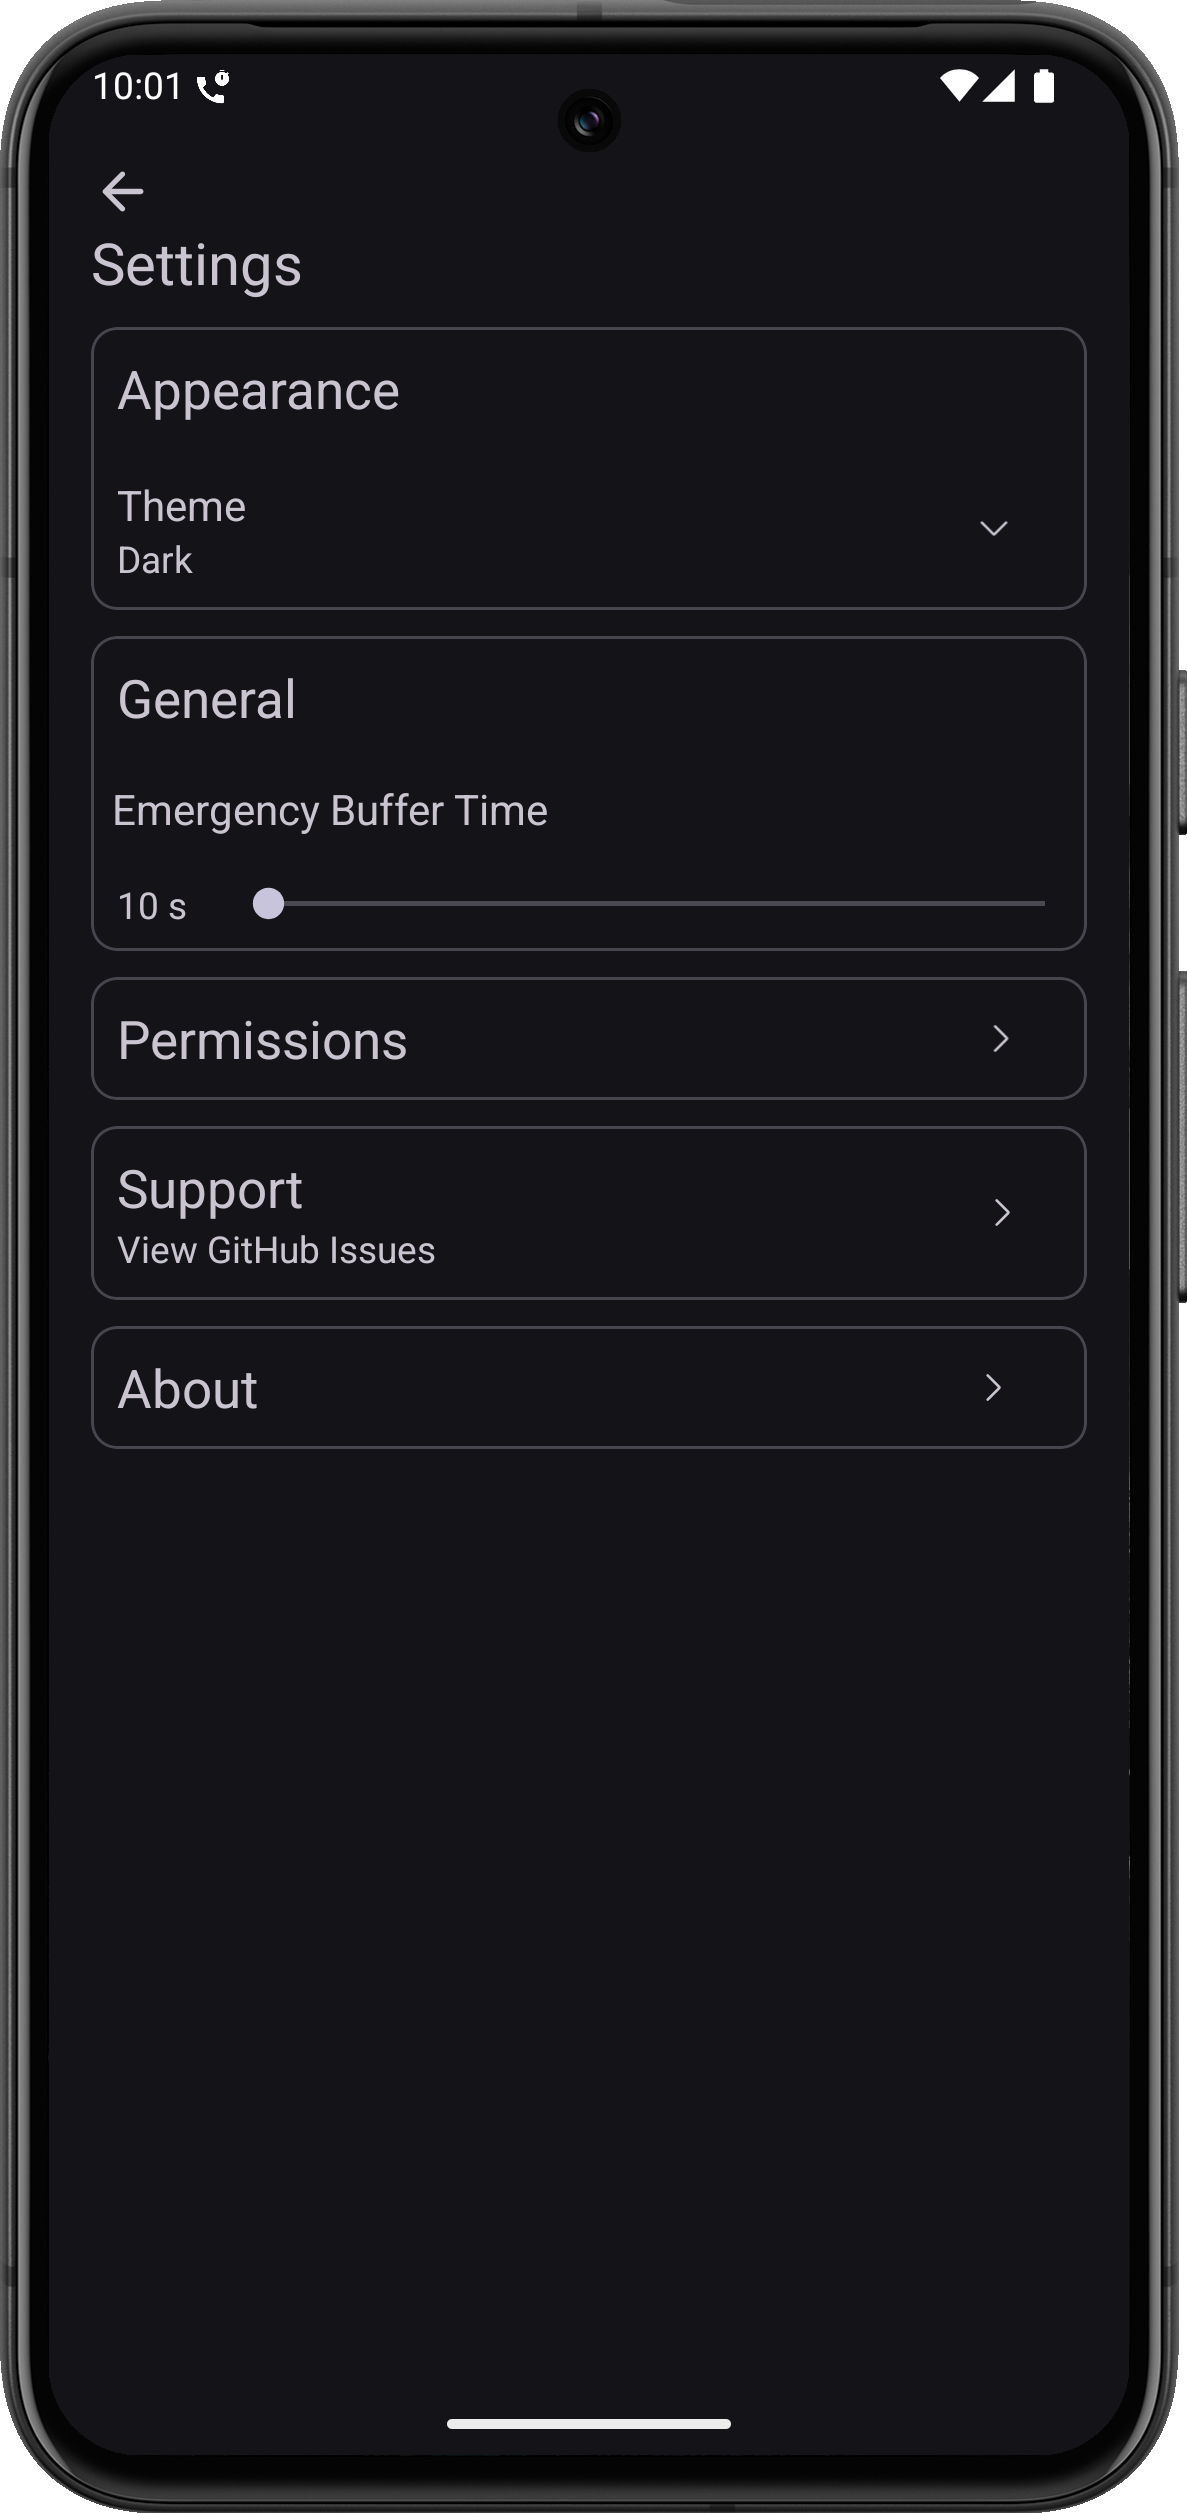
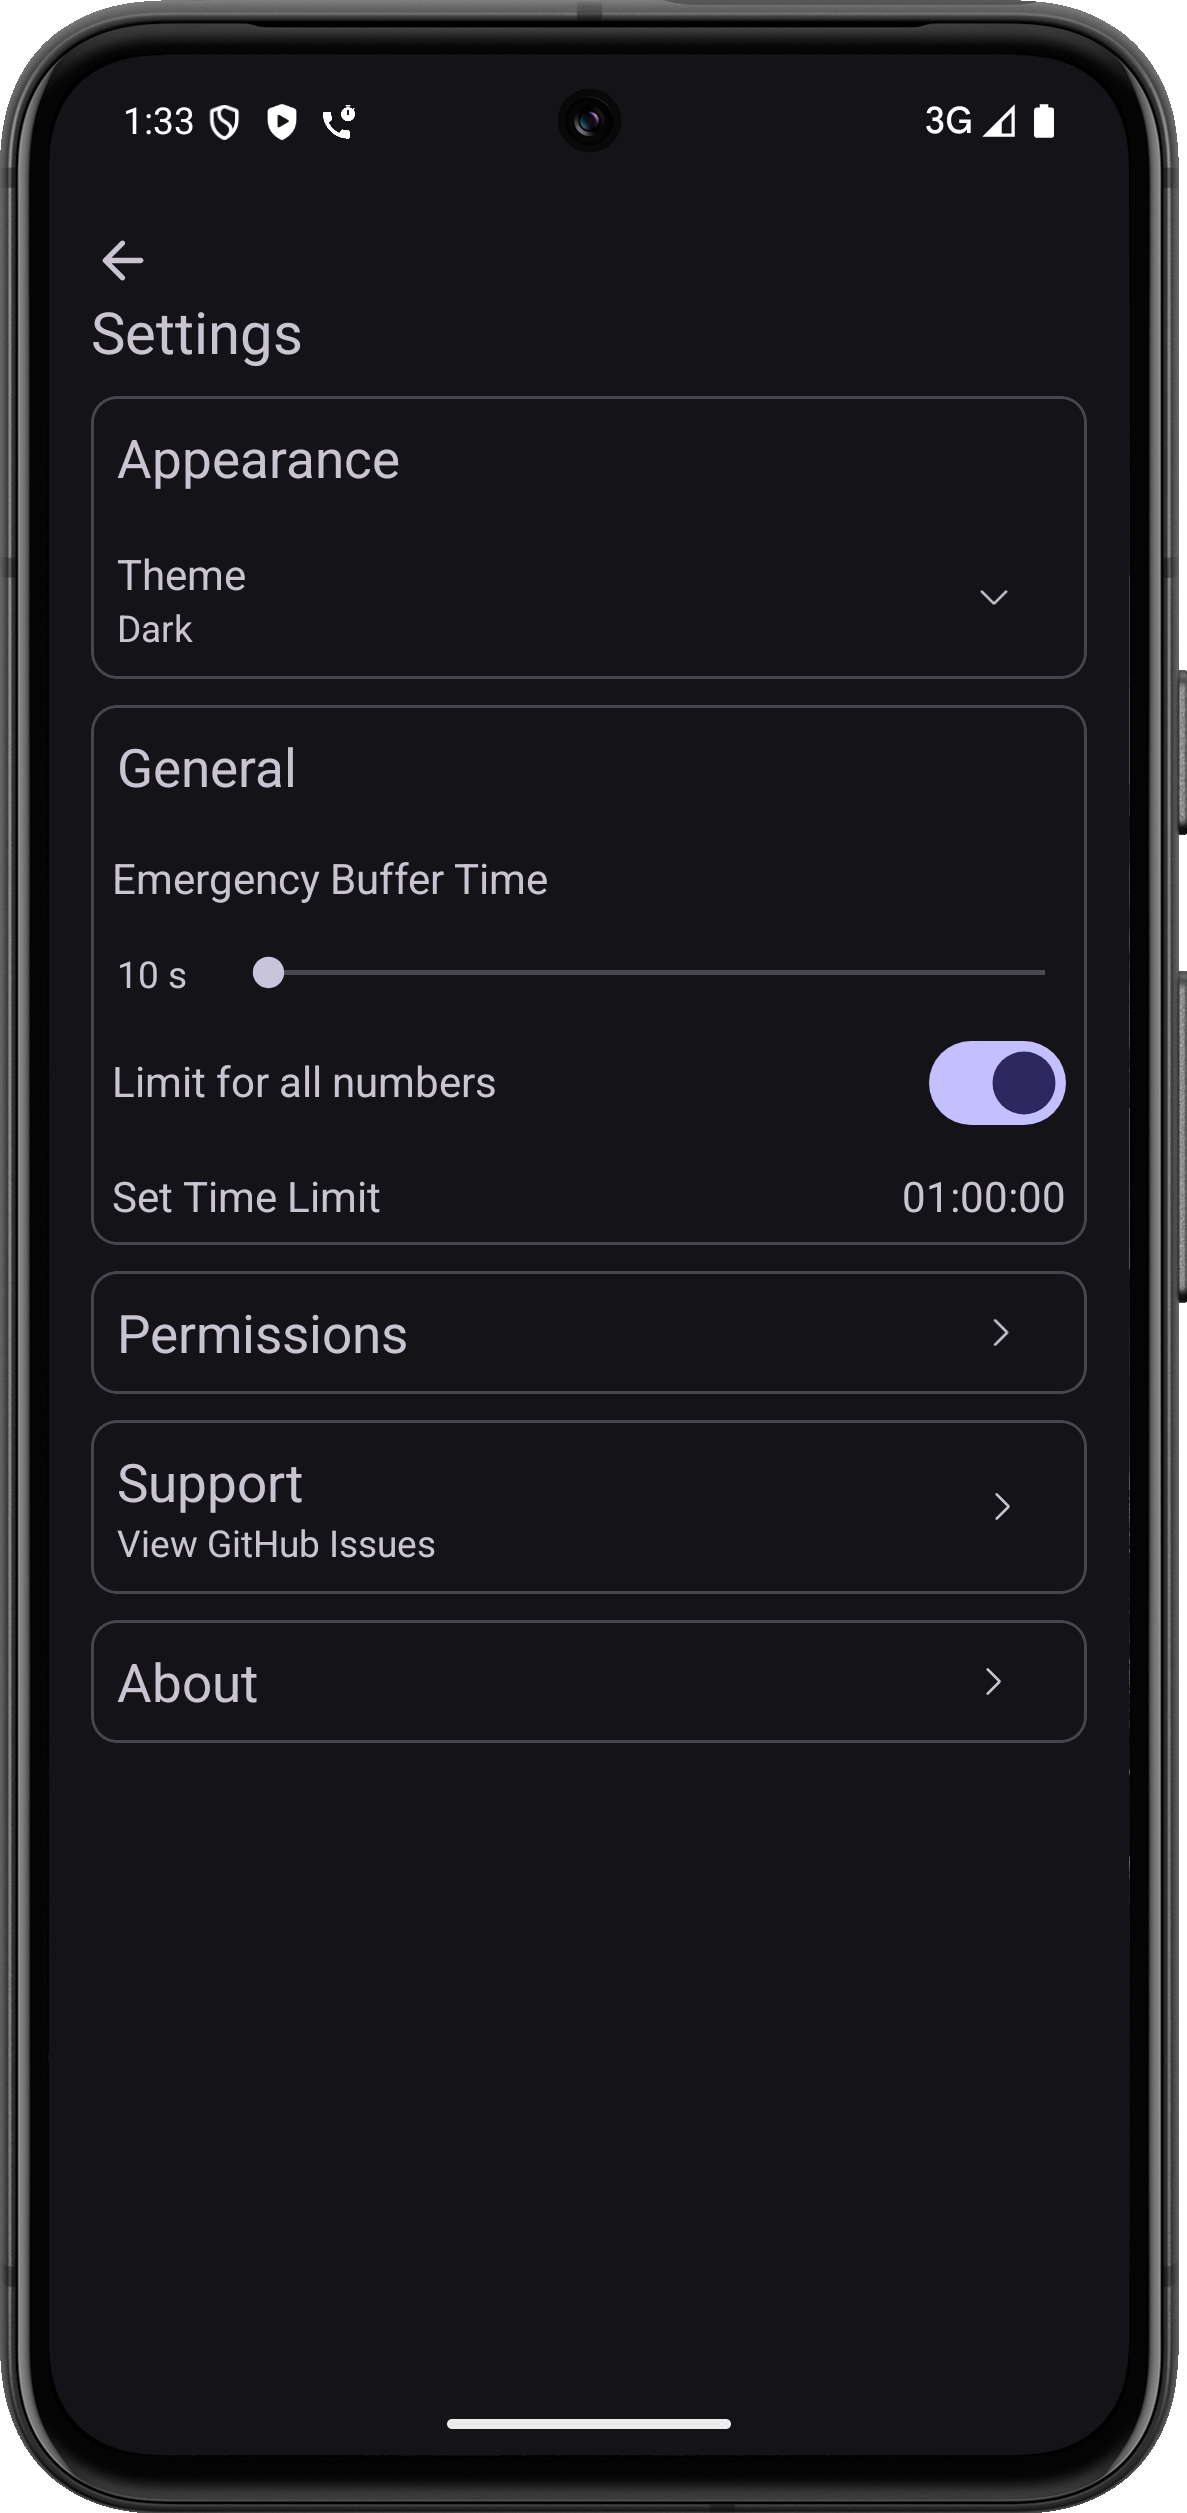
Change Logs

diff --git a/README.md b/README.md
@@ -27,6 +27,7 @@ Call Limiter is an Android application designed to help users set a time limit f
 - 🔢 **Set time limits** for specific phone numbers
 - 📴 **Auto-disconnect calls** when the limit is reached
 - 🎡 **Bottom sheet wheel selector** for choosing time duration
+- 🌐 **Global Call Limit** apply default time limit to all calls automatically
 - 📂 **Persistent storage** – limits remain saved until deleted
 - 🗑 **Delete or edit limits** for specific numbers anytime
 - 🎨 **Dark & Light themes** with system theme support
@@ -62,6 +63,7 @@ Call Limiter requires the following Android permissions:
 
 - 🌓 **Theme Selection** → Choose System / Light / Dark mode
 - ⏳ **Emergency Buffer Time** → Add 10s – 5min extra if needed
+- 🌐 **Global Call Limit** – Apply default time limit to all calls automatically
 - 📜 **Permissions Page** → View and manage required app permissions
 - 🆘 **Support / Help** → Redirect to GitHub Issues for reporting bugs
 - ℹ **About** → Author, Repository, Change Log, Terms & Conditions and Privacy Policy
